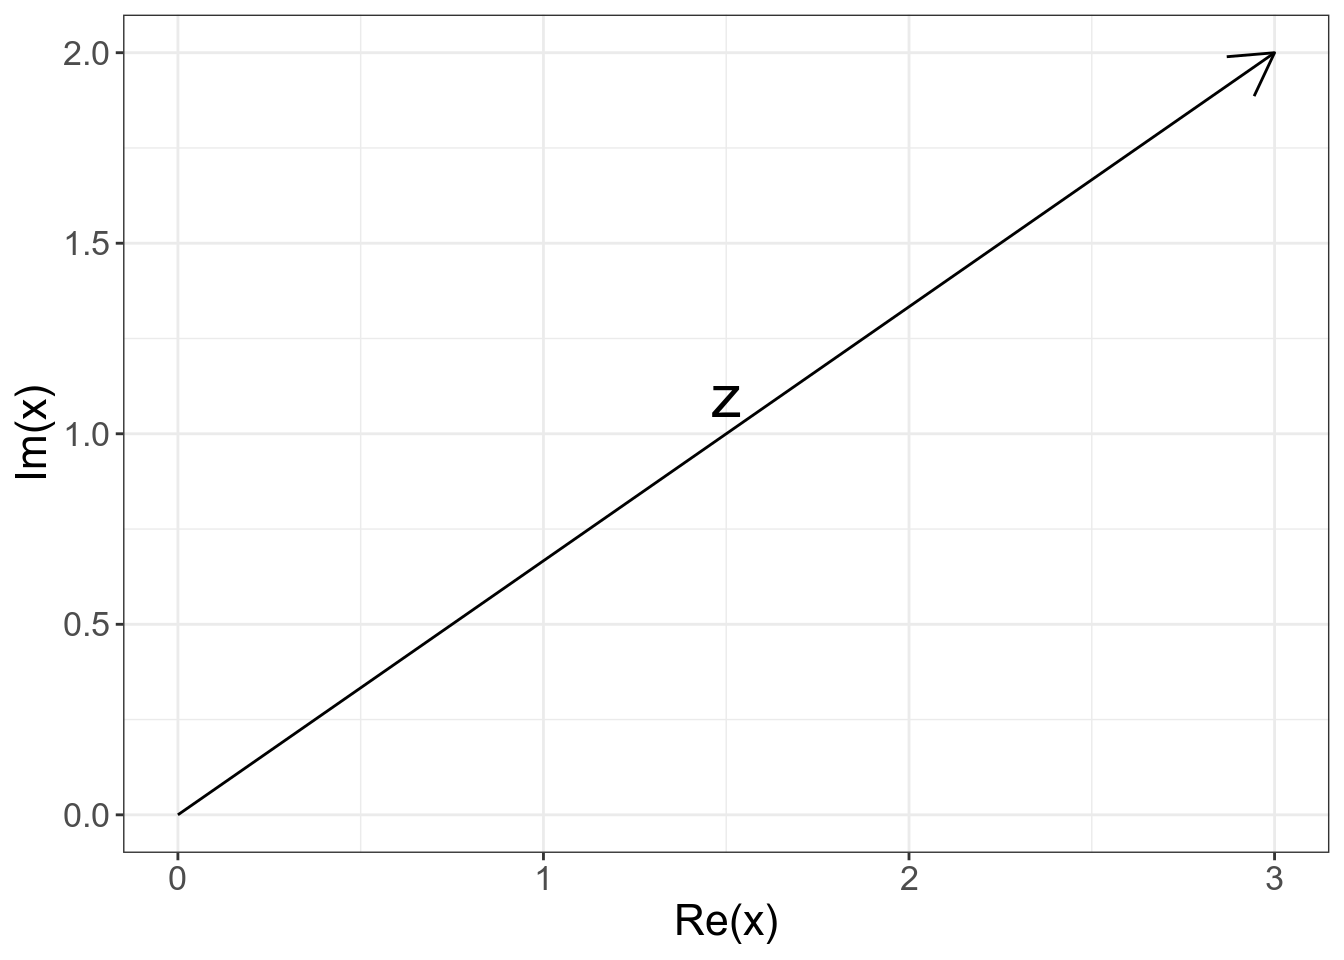
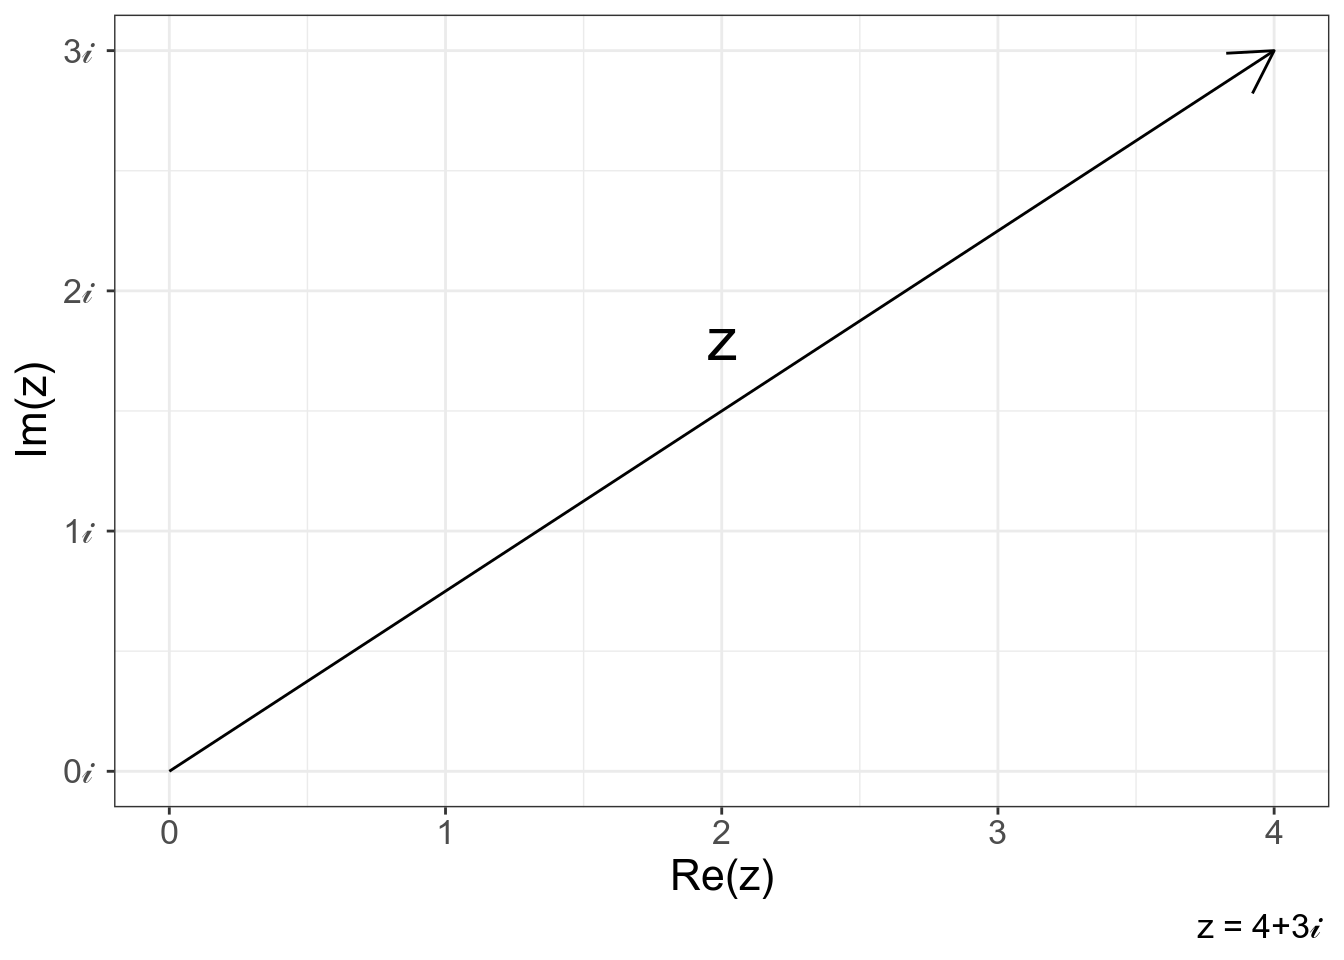
add to math section

diff --git a/docs/1_math.html b/docs/1_math.html
@@ -741,15 +741,61 @@ div.tocify {
 <div id="section-6" class="section level3">
 <h3>2.2 Комплексные числа</h3>
 <p>На рубеже XVIII-XIX веков К. Ф. Гаусс доказад формулу о том, что каждый многочлен, степень которого не меньше единицы, имеет хотя бы один действительный или комлексный корень. Эта формула использует комлексные числа, придуманные впервые в XVI веке (впервые квадрытные корни из отрицательных числе появляются у математика Дж. Кордано).</p>
-<p>Комплексные числа называют упорядоченные пары действительных чисел, второй из которых записывают, используя символ <span class="math inline">\(i\)</span>, например, 5 + 6i, 2 - i, 9 + 0i. (обычно второе слогаемое в таком случае опускают) Все арифметические действия с комлексными числами осуществляется по обычным правилам с учетом равенства <span class="math inline">\(i^2 = -1\)</span>. Комплексное число состоит из двух частей: <strong>действительной</strong> (<span class="math inline">\(\Re(5+6i) = 5\)</span>) и <strong>мнимой</strong> (<span class="math inline">\(\Im(5+6i) = 6\)</span>).</p>
-<p>ПРИМЕРЫ НА АРИФМЕТИКУ</p>
+<p>Комплексные числа называют упорядоченные пары действительных чисел, второй из которых записывают, используя символ <span class="math inline">\(i\)</span>, например, 5 + 6i, 2 - i, 9 + 0i. (обычно второе слогаемое в таком случае опускают) Все арифметические действия с комлексными числами осуществляется по обычным правилам с учетом равенства <span class="math inline">\(i^2 = -1\)</span>. Комплексное число состоит из двух частей:</p>
+<ul>
+<li><strong>действительной</strong> Re(5+6i) = 5</li>
+<li><strong>мнимой</strong> Im(5+6i) = 6</li>
+</ul>
 <p><strong>Модулем</strong> или <strong>абсолютныой величеной</strong> комплексного числа <span class="math inline">\(z = a - ib\)</span> называют число <span class="math inline">\(|z| = \sqrt{a^2+b^2}\)</span>.</p>
-<p>Комплексные числа также можно изобразить на координатной плоскости, отложив по оси абсцисс действительную часть, а по оси ординат мнимую часть.</p>
-<div class="sourceCode" id="cb13"><pre class="sourceCode r"><code class="sourceCode r"><span id="cb13-1"><a href="#cb13-1"></a><span class="kw">tibble</span>(<span class="dt">x =</span> <span class="kw">c</span>(<span class="dv">0</span><span class="op">+</span>0i, <span class="dv">3</span><span class="op">+</span>2i)) <span class="op">%&gt;%</span><span class="st"> </span></span>
-<span id="cb13-2"><a href="#cb13-2"></a><span class="st">  </span><span class="kw">ggplot</span>(<span class="kw">aes</span>(<span class="kw">Re</span>(x), <span class="kw">Im</span>(x)))<span class="op">+</span></span>
-<span id="cb13-3"><a href="#cb13-3"></a><span class="st">  </span><span class="kw">geom_line</span>(<span class="dt">arrow =</span> <span class="kw">arrow</span>())<span class="op">+</span></span>
-<span id="cb13-4"><a href="#cb13-4"></a><span class="st">  </span><span class="kw">annotate</span>(<span class="st">&quot;text&quot;</span>, <span class="dt">x =</span> <span class="fl">1.5</span>, <span class="dt">y =</span> <span class="fl">1.1</span>, <span class="dt">label =</span> <span class="st">&quot;z&quot;</span>, <span class="dt">size =</span> <span class="dv">8</span>)</span></code></pre></div>
+<p>Комплексные числа также можно изобразить в виде вектора на координатной плоскости, отложив по оси абсцисс действительную часть, а по оси ординат мнимую часть:</p>
+<div class="sourceCode" id="cb13"><pre class="sourceCode r"><code class="sourceCode r"><span id="cb13-1"><a href="#cb13-1"></a><span class="kw">tibble</span>(<span class="dt">z =</span> <span class="kw">c</span>(<span class="dv">0</span><span class="op">+</span>0i, <span class="dv">4</span><span class="op">+</span>3i)) <span class="op">%&gt;%</span><span class="st"> </span></span>
+<span id="cb13-2"><a href="#cb13-2"></a><span class="st">  </span><span class="kw">ggplot</span>(<span class="kw">aes</span>(<span class="kw">Re</span>(z), <span class="kw">Im</span>(z)))<span class="op">+</span></span>
+<span id="cb13-3"><a href="#cb13-3"></a><span class="st">  </span><span class="kw">geom_path</span>(<span class="dt">arrow =</span> <span class="kw">arrow</span>())<span class="op">+</span></span>
+<span id="cb13-4"><a href="#cb13-4"></a><span class="st">  </span><span class="kw">annotate</span>(<span class="st">&quot;text&quot;</span>, <span class="dt">x =</span> <span class="dv">2</span>, <span class="dt">y =</span> <span class="fl">1.8</span>, <span class="dt">label =</span> <span class="st">&quot;z&quot;</span>, <span class="dt">size =</span> <span class="dv">8</span>)<span class="op">+</span></span>
+<span id="cb13-5"><a href="#cb13-5"></a><span class="st">  </span><span class="kw">scale_y_continuous</span>(<span class="dt">breaks =</span> <span class="dv">0</span><span class="op">:</span><span class="dv">3</span>, <span class="dt">labels =</span> <span class="kw">paste0</span>(<span class="dv">0</span><span class="op">:</span><span class="dv">3</span>, <span class="st">&quot;𝒾 &quot;</span>))<span class="op">+</span></span>
+<span id="cb13-6"><a href="#cb13-6"></a><span class="st">  </span><span class="kw">labs</span>(<span class="dt">caption =</span> <span class="st">&quot;z = 4+3𝒾 &quot;</span>)</span></code></pre></div>
 <p><img src="1_math_files/figure-html/unnamed-chunk-13-1.png" width="672" /></p>
+<blockquote>
+<p>🤔 Назовите модуль числа <em>z</em> на предыдущем графике.</p>
+</blockquote>
+<form name="FormOne" onsubmit="return validateFormOne()" method="post">
+<input type="text" name="answerOne"> <input type="submit" value="check">
+</form>
+<p><br></p>
+<p>В результате сложения двух комлексных чисел <span class="math inline">\(z_1 = x_1 + y_1i\)</span> и <span class="math inline">\(z_2 = x_2 + y_2i\)</span> получается комлпесное число <span class="math inline">\(z_3 = x_3 + y_3i\)</span>, где</p>
+<ul>
+<li><span class="math inline">\(x_3 = x_1 + x_2\)</span></li>
+<li><span class="math inline">\(y_3 = y_1 + y_2\)</span></li>
+</ul>
+<div class="sourceCode" id="cb14"><pre class="sourceCode r"><code class="sourceCode r"><span id="cb14-1"><a href="#cb14-1"></a><span class="kw">tibble</span>(<span class="dt">z =</span> <span class="kw">c</span>(<span class="dv">0</span> <span class="op">+</span><span class="st"> </span>0i, <span class="dv">3</span><span class="op">+</span>1i, <span class="dv">0</span> <span class="op">+</span><span class="st"> </span>0i, <span class="dv">1</span><span class="op">+</span>3i, <span class="dv">0</span> <span class="op">+</span><span class="st"> </span>0i, <span class="dv">4</span><span class="op">+</span>4i),</span>
+<span id="cb14-2"><a href="#cb14-2"></a>       <span class="dt">x =</span> <span class="kw">c</span>(<span class="st">&quot;z1&quot;</span>, <span class="st">&quot;z1&quot;</span>, <span class="st">&quot;z2&quot;</span>, <span class="st">&quot;z2&quot;</span>, <span class="st">&quot;z3&quot;</span>, <span class="st">&quot;z3&quot;</span>),</span>
+<span id="cb14-3"><a href="#cb14-3"></a>       <span class="dt">clr =</span> <span class="kw">c</span>(<span class="st">&quot;1&quot;</span>, <span class="st">&quot;1&quot;</span>, <span class="st">&quot;1&quot;</span>, <span class="st">&quot;1&quot;</span>, <span class="st">&quot;2&quot;</span>, <span class="st">&quot;2&quot;</span>)) <span class="op">%&gt;%</span><span class="st"> </span></span>
+<span id="cb14-4"><a href="#cb14-4"></a><span class="st">  </span><span class="kw">ggplot</span>(<span class="kw">aes</span>(<span class="kw">Re</span>(z), <span class="kw">Im</span>(z), <span class="dt">group =</span> x, <span class="dt">color =</span> clr))<span class="op">+</span></span>
+<span id="cb14-5"><a href="#cb14-5"></a><span class="st">  </span><span class="kw">geom_line</span>(<span class="dt">arrow =</span> <span class="kw">arrow</span>(), <span class="dt">show.legend =</span> <span class="ot">FALSE</span>)<span class="op">+</span></span>
+<span id="cb14-6"><a href="#cb14-6"></a><span class="st">  </span><span class="kw">annotate</span>(<span class="st">&quot;segment&quot;</span>, <span class="dt">x =</span> <span class="kw">Re</span>(<span class="dv">3</span><span class="op">+</span>1i), <span class="dt">y =</span> <span class="kw">Im</span>(<span class="dv">3</span><span class="op">+</span>1i), <span class="dt">xend =</span> <span class="kw">Re</span>(<span class="dv">4</span><span class="op">+</span>4i), <span class="dt">yend =</span> <span class="kw">Im</span>(<span class="dv">4</span><span class="op">+</span>4i), <span class="dt">linetype =</span> <span class="dv">2</span>)<span class="op">+</span></span>
+<span id="cb14-7"><a href="#cb14-7"></a><span class="st">  </span><span class="kw">annotate</span>(<span class="st">&quot;segment&quot;</span>, <span class="dt">x =</span> <span class="kw">Re</span>(<span class="dv">1</span><span class="op">+</span>3i), <span class="dt">y =</span> <span class="kw">Im</span>(<span class="dv">1</span><span class="op">+</span>3i), <span class="dt">xend =</span> <span class="kw">Re</span>(<span class="dv">4</span><span class="op">+</span>4i), <span class="dt">yend =</span> <span class="kw">Im</span>(<span class="dv">4</span><span class="op">+</span>4i), <span class="dt">linetype =</span> <span class="dv">2</span>)<span class="op">+</span></span>
+<span id="cb14-8"><a href="#cb14-8"></a><span class="st">  </span><span class="kw">annotate</span>(<span class="st">&quot;text&quot;</span>, <span class="dt">x =</span> <span class="fl">0.4</span>, <span class="dt">y =</span> <span class="fl">1.6</span>, <span class="dt">label =</span> <span class="st">&quot;z1&quot;</span>, <span class="dt">size =</span> <span class="dv">8</span>)<span class="op">+</span></span>
+<span id="cb14-9"><a href="#cb14-9"></a><span class="st">  </span><span class="kw">annotate</span>(<span class="st">&quot;text&quot;</span>, <span class="dt">x =</span> <span class="fl">1.8</span>, <span class="dt">y =</span> <span class="fl">0.8</span>, <span class="dt">label =</span> <span class="st">&quot;z2&quot;</span>, <span class="dt">size =</span> <span class="dv">8</span>)<span class="op">+</span></span>
+<span id="cb14-10"><a href="#cb14-10"></a><span class="st">  </span><span class="kw">annotate</span>(<span class="st">&quot;text&quot;</span>, <span class="dt">x =</span> <span class="fl">1.8</span>, <span class="dt">y =</span> <span class="fl">2.2</span>, <span class="dt">label =</span> <span class="st">&quot;z3&quot;</span>, <span class="dt">size =</span> <span class="dv">8</span>)<span class="op">+</span></span>
+<span id="cb14-11"><a href="#cb14-11"></a><span class="st">  </span><span class="kw">scale_y_continuous</span>(<span class="dt">breaks =</span> <span class="dv">0</span><span class="op">:</span><span class="dv">4</span>, <span class="dt">labels =</span> <span class="kw">paste0</span>(<span class="dv">0</span><span class="op">:</span><span class="dv">4</span>, <span class="st">&quot;𝒾 &quot;</span>))<span class="op">+</span></span>
+<span id="cb14-12"><a href="#cb14-12"></a><span class="st">  </span><span class="kw">labs</span>(<span class="dt">caption =</span> <span class="st">&quot;z3 = z1 + z2&quot;</span>)</span></code></pre></div>
+<p><img src="1_math_files/figure-html/unnamed-chunk-14-1.png" width="672" /></p>
+<p>Комплексное число можно выразить также при помощи тригонометрических функций:</p>
+<div class="sourceCode" id="cb15"><pre class="sourceCode r"><code class="sourceCode r"><span id="cb15-1"><a href="#cb15-1"></a><span class="kw">tibble</span>(<span class="dt">z =</span> <span class="kw">c</span>(<span class="dv">0</span><span class="op">+</span>0i, <span class="dv">4</span><span class="op">+</span>3i)) <span class="op">%&gt;%</span><span class="st"> </span></span>
+<span id="cb15-2"><a href="#cb15-2"></a><span class="st">  </span><span class="kw">ggplot</span>(<span class="kw">aes</span>(<span class="kw">Re</span>(z), <span class="kw">Im</span>(z)))<span class="op">+</span></span>
+<span id="cb15-3"><a href="#cb15-3"></a><span class="st">  </span><span class="kw">geom_path</span>(<span class="dt">arrow =</span> <span class="kw">arrow</span>(), <span class="dt">size =</span> <span class="dv">2</span>)<span class="op">+</span></span>
+<span id="cb15-4"><a href="#cb15-4"></a><span class="st">  </span><span class="kw">annotate</span>(<span class="st">&quot;text&quot;</span>, <span class="dt">x =</span> <span class="dv">2</span>, <span class="dt">y =</span> <span class="fl">1.8</span>, <span class="dt">label =</span> <span class="st">&quot;r&quot;</span>, <span class="dt">size =</span> <span class="dv">8</span>)<span class="op">+</span></span>
+<span id="cb15-5"><a href="#cb15-5"></a><span class="st">  </span><span class="kw">annotate</span>(<span class="st">&quot;segment&quot;</span>, <span class="dt">x =</span> <span class="dv">0</span>, <span class="dt">y =</span> <span class="fl">0.2</span>, <span class="dt">xend =</span> <span class="fl">3.8</span>, <span class="dt">yend =</span> <span class="dv">3</span>, <span class="dt">arrow =</span> <span class="kw">arrow</span>(<span class="dt">ends =</span> <span class="st">&quot;both&quot;</span>, <span class="dt">type =</span> <span class="st">&quot;closed&quot;</span>), <span class="dt">linetype =</span> <span class="dv">2</span>)<span class="op">+</span></span>
+<span id="cb15-6"><a href="#cb15-6"></a><span class="st">  </span><span class="kw">annotate</span>(<span class="st">&quot;curve&quot;</span>, <span class="dt">x =</span> <span class="fl">0.5</span>, <span class="dt">y =</span> <span class="dv">0</span>, <span class="dt">xend =</span> <span class="fl">0.25</span>, <span class="dt">yend =</span> <span class="fl">0.2</span>)<span class="op">+</span></span>
+<span id="cb15-7"><a href="#cb15-7"></a><span class="st">  </span><span class="kw">annotate</span>(<span class="st">&quot;text&quot;</span>, <span class="dt">x =</span> <span class="fl">0.55</span>, <span class="dt">y =</span> <span class="fl">0.2</span>, <span class="dt">label =</span> <span class="st">&quot;θ&quot;</span>, <span class="dt">size =</span> <span class="dv">8</span>)<span class="op">+</span></span>
+<span id="cb15-8"><a href="#cb15-8"></a><span class="st">  </span><span class="kw">annotate</span>(<span class="st">&quot;segment&quot;</span>, <span class="dt">x =</span> <span class="fl">0.1</span>, <span class="dt">y =</span> <span class="dv">0</span>, <span class="dt">xend =</span> <span class="dv">4</span>, <span class="dt">yend =</span> <span class="dv">0</span>, <span class="dt">arrow =</span> <span class="kw">arrow</span>(<span class="dt">ends =</span> <span class="st">&quot;both&quot;</span>, <span class="dt">type =</span> <span class="st">&quot;closed&quot;</span>), <span class="dt">linetype =</span> <span class="dv">2</span>)<span class="op">+</span></span>
+<span id="cb15-9"><a href="#cb15-9"></a><span class="st">  </span><span class="kw">annotate</span>(<span class="st">&quot;segment&quot;</span>, <span class="dt">x =</span> <span class="fl">0.1</span>, <span class="dt">y =</span> <span class="dv">0</span>, <span class="dt">xend =</span> <span class="dv">4</span>, <span class="dt">yend =</span> <span class="dv">0</span>, <span class="dt">arrow =</span> <span class="kw">arrow</span>(<span class="dt">ends =</span> <span class="st">&quot;both&quot;</span>, <span class="dt">type =</span> <span class="st">&quot;closed&quot;</span>), <span class="dt">linetype =</span> <span class="dv">2</span>)<span class="op">+</span></span>
+<span id="cb15-10"><a href="#cb15-10"></a><span class="st">  </span><span class="kw">annotate</span>(<span class="st">&quot;text&quot;</span>, <span class="dt">x =</span> <span class="dv">2</span>, <span class="dt">y =</span> <span class="fl">0.15</span>, <span class="dt">label =</span> <span class="st">&quot;x&quot;</span>, <span class="dt">size =</span> <span class="dv">8</span>)<span class="op">+</span></span>
+<span id="cb15-11"><a href="#cb15-11"></a><span class="st">  </span><span class="kw">annotate</span>(<span class="st">&quot;segment&quot;</span>, <span class="dt">x =</span> <span class="dv">4</span>, <span class="dt">y =</span> <span class="fl">0.05</span>, <span class="dt">xend =</span> <span class="dv">4</span>, <span class="dt">yend =</span> <span class="fl">2.9</span>, <span class="dt">arrow =</span> <span class="kw">arrow</span>(<span class="dt">ends =</span> <span class="st">&quot;both&quot;</span>, <span class="dt">type =</span> <span class="st">&quot;closed&quot;</span>), <span class="dt">linetype =</span> <span class="dv">2</span>)<span class="op">+</span></span>
+<span id="cb15-12"><a href="#cb15-12"></a><span class="st">  </span><span class="kw">annotate</span>(<span class="st">&quot;text&quot;</span>, <span class="dt">x =</span> <span class="fl">3.85</span>, <span class="dt">y =</span> <span class="fl">1.5</span>, <span class="dt">label =</span> <span class="st">&quot;y&quot;</span>, <span class="dt">size =</span> <span class="dv">8</span>)<span class="op">+</span></span>
+<span id="cb15-13"><a href="#cb15-13"></a><span class="st">  </span><span class="kw">scale_y_continuous</span>(<span class="dt">breaks =</span> <span class="dv">0</span><span class="op">:</span><span class="dv">3</span>, <span class="dt">labels =</span> <span class="kw">paste0</span>(<span class="dv">0</span><span class="op">:</span><span class="dv">3</span>, <span class="st">&quot;𝒾 &quot;</span>))<span class="op">+</span></span>
+<span id="cb15-14"><a href="#cb15-14"></a><span class="st">  </span><span class="kw">labs</span>(<span class="dt">caption =</span> <span class="st">&quot;z = x + y𝒾 = 4 + 3𝒾 &quot;</span>)</span></code></pre></div>
+<p><img src="1_math_files/figure-html/unnamed-chunk-15-1.png" width="672" /></p>
 </div>
 <div id="section-7" class="section level3">
 <h3>2.3 Формула Эйлера</h3>
@@ -780,6 +826,18 @@ div.tocify {
 <li><a href="http://www.jezzamon.com/fourier/">визуализация преобразования Фурье</a>, сделанная <a href="https://github.com/Jezzamonn"><strong>Jez Swanson</strong></a></li>
 <li><strong>Fulop S. A. (2011) Speech Spectrum Analysis</strong> — большая книжка про спектральный анализ звука (попросите у меня .pdf)</li>
 </ul>
+<script>
+function validateFormOne() {
+    var x = document.forms["FormOne"]["answerOne"].value;
+    if (x != "5") {
+        alert("У меня другой ответ...");
+        return false;
+    } else {
+        alert("Да, все правильно");
+        return false;
+    }
+}
+</script>
 </div>
 
 <br><br><br>
